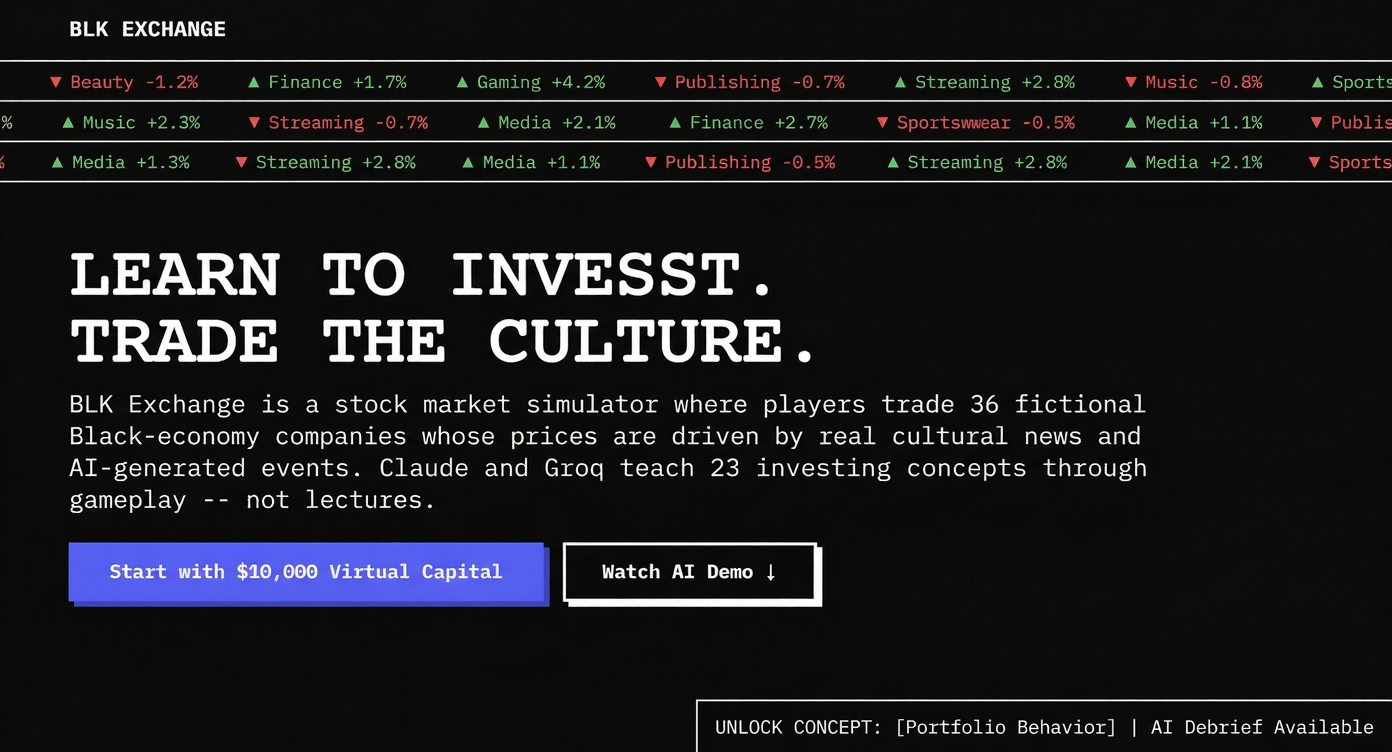
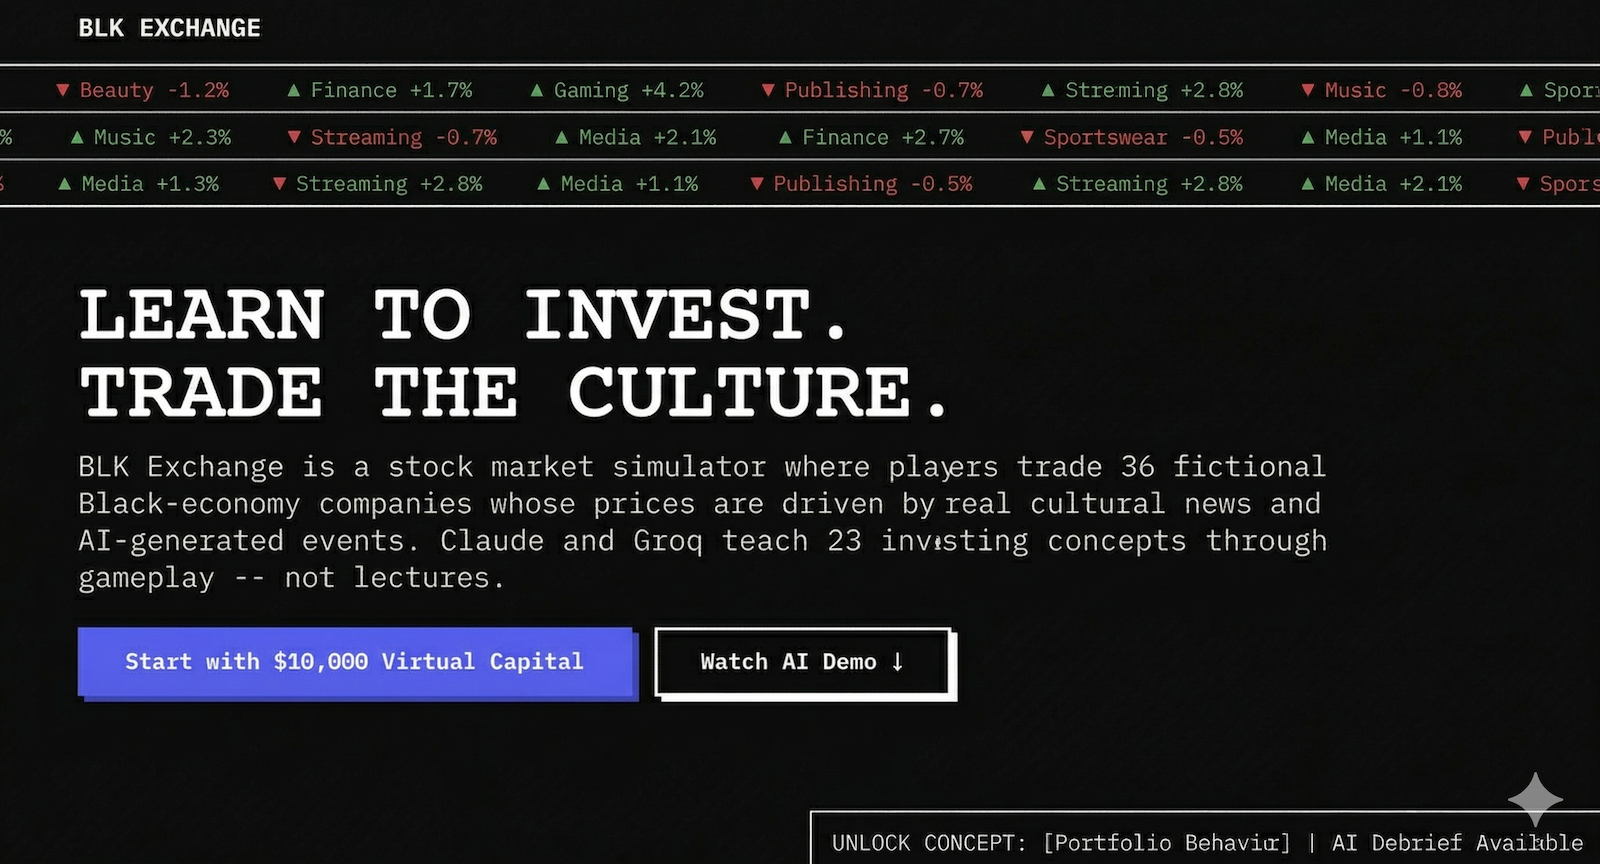
feat: updated social card + LinkedIn post for hackathon launch

diff --git a/docs/linkedin-post.md b/docs/linkedin-post.md
@@ -1,0 +1,19 @@
+For every $100 in wealth a White family holds, a Black family holds $15.
+
+I kept reading that stat and waiting for someone to build the right tool. Nobody did. So last week I built it myself.
+
+BLK Exchange is a stock market simulator where Black culture IS the economy. You trade 36 fictional companies: CROWN (hair care). KICKS (footwear). DRIP (streetwear). VIZN (streaming). VAULT (community bank). Real news from 16 Black media publications moves the prices. AI coaches you through 23 investing concepts as you play.
+
+You don't read a textbook. You learn by trading companies you actually care about.
+
+I did the research first. Game-based learning works. Culturally responsive education produces better outcomes for Black students. No existing platform combines both with a structured investing curriculum. That gap is what I built for.
+
+Here's the part that still surprises me: only 8 Black-owned companies are publicly traded on major U.S. exchanges. Eight. A feature in development will introduce those real companies into the sim. Urban One. Carver Bancorp. Broadway Financial. The NAACP Minority Empowerment ETF as the graduation capstone. From sim to real.
+
+Just submitted to the Hackonomics 2026 hackathon. The app is live and free.
+
+Did anyone in your family talk to you about investing growing up?
+
+blkexchange.com
+
+#BLKExchange #FinancialLiteracy #BlackWealth #Hackonomics2026 #HowardAlumni
